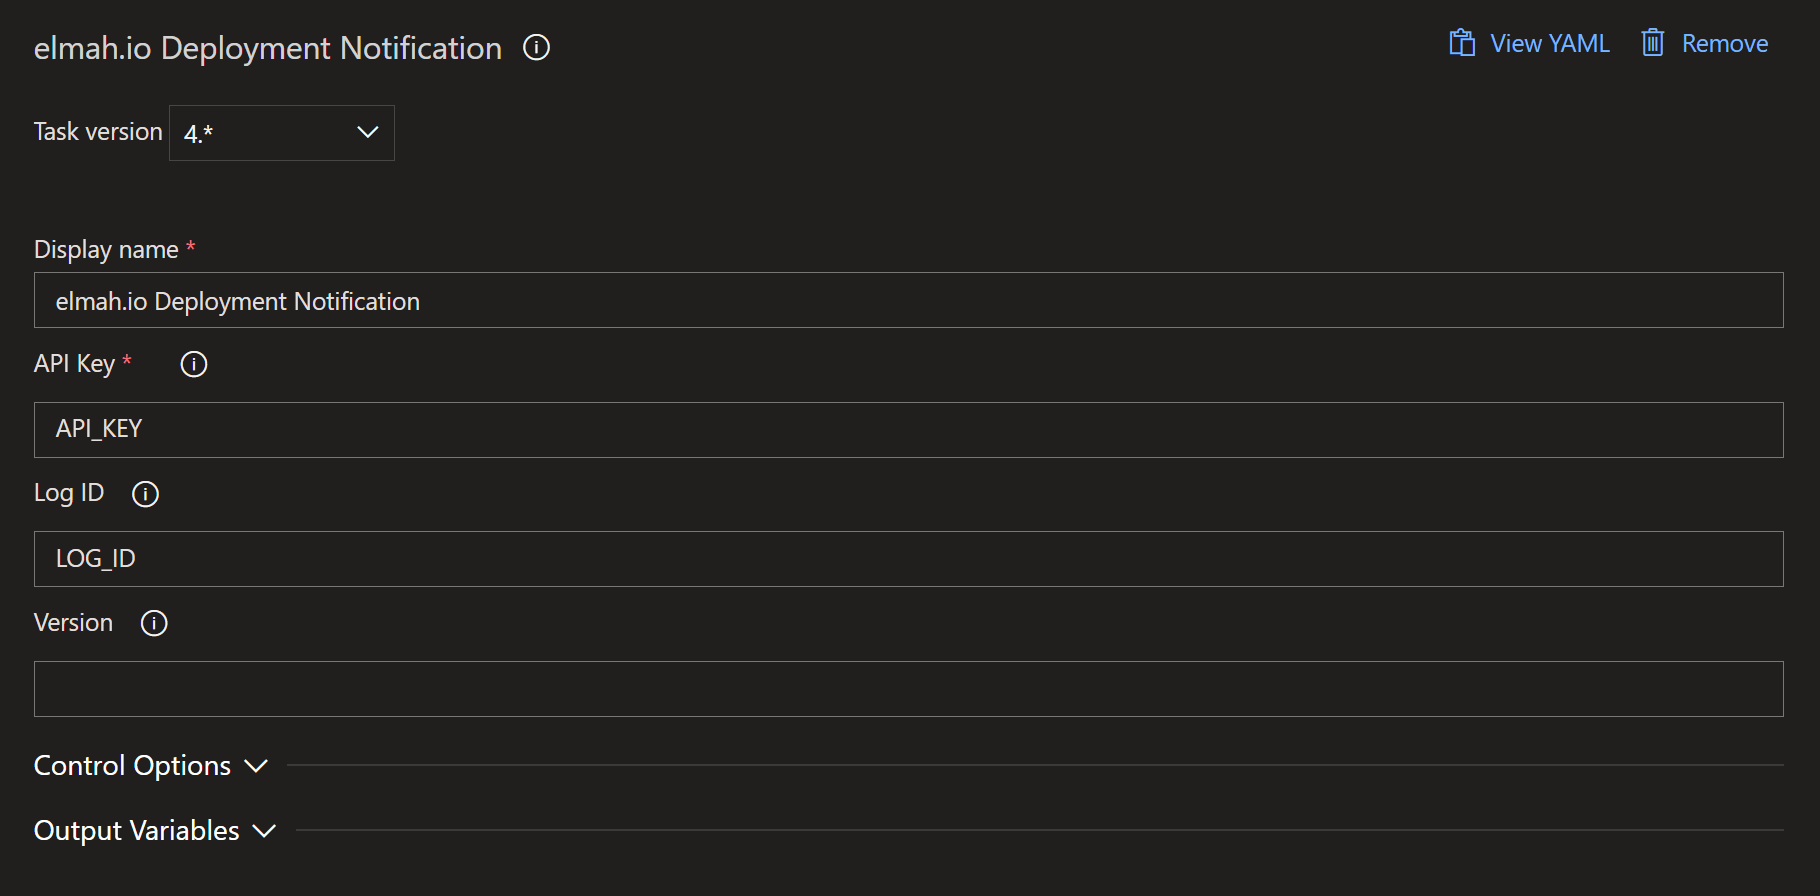
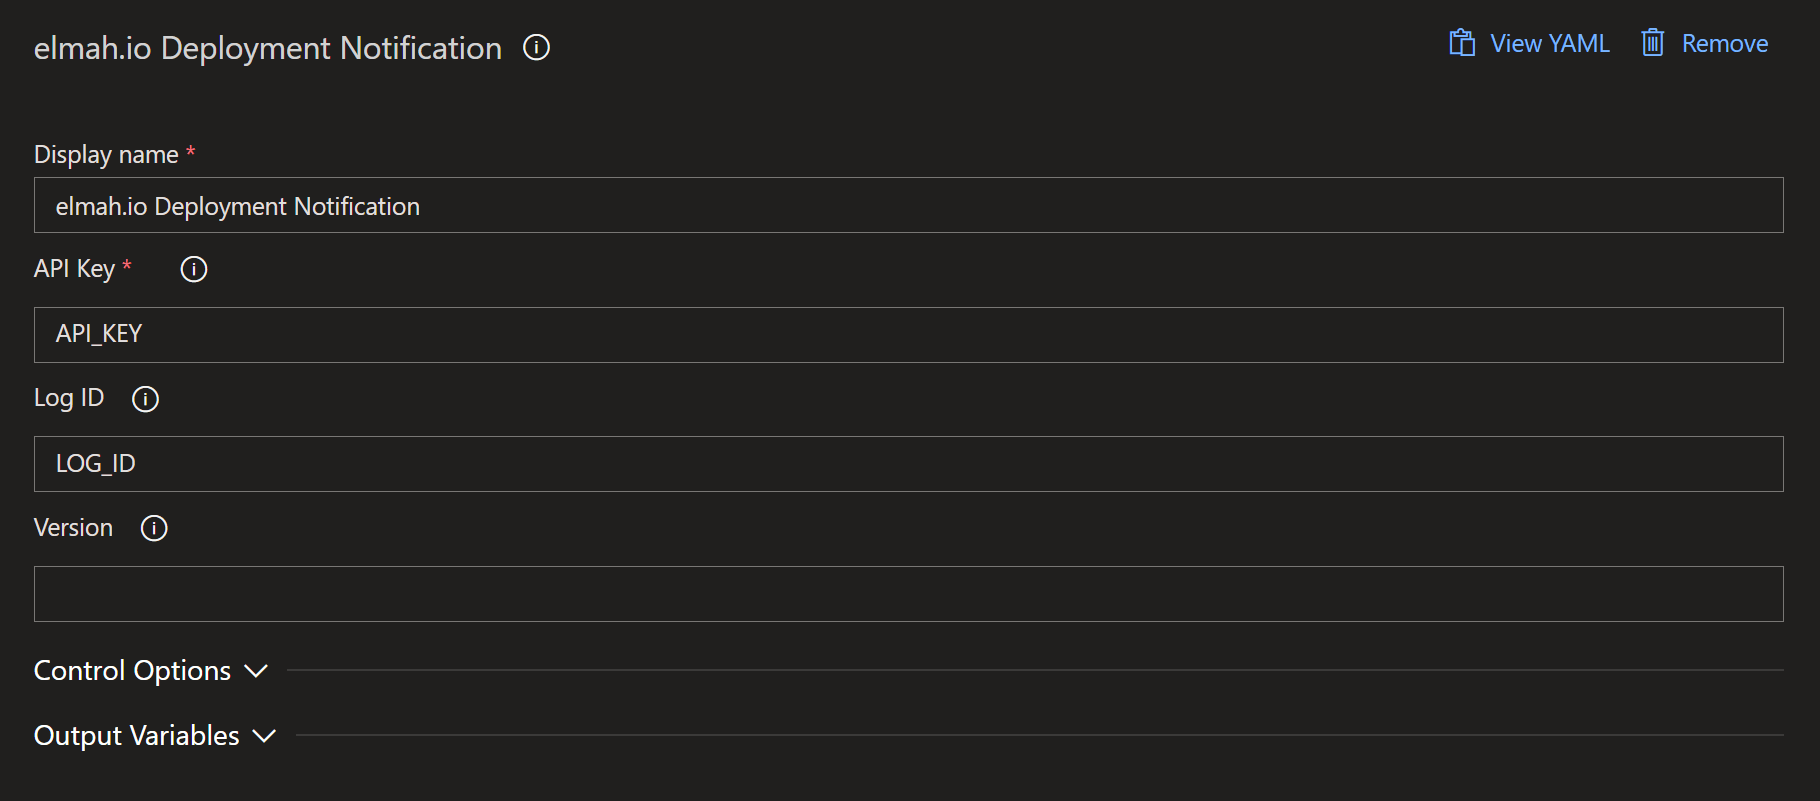
Update the README for version 5 and the release screenshot
Add YAML and input documentation, agent requirements and an upgrade
section, and remove the task version from the release screenshot.

diff --git a/README.md b/README.md
@@ -1,35 +1,64 @@
-# Notify elmah.io when you deploy
+# elmah.io Deployment Notification
 
-This extension notifies [elmah.io](https://elmah.io) when you create a new build or deployment from Azure DevOps. By telling elmah.io about your software versions, you can track how your deployments are performing, in terms of the number of warnings and errors generated by each release.
+This extension tells [elmah.io](https://elmah.io) when you deploy from Azure DevOps. With deployments tracked, elmah.io shows how many warnings and errors each version produces, so you can tell whether a release made things better or worse.
 
-## Usage
+The task works in YAML pipelines and classic release pipelines, on Windows, Linux, and macOS agents.
 
-Go to the [elmah.io Deployment Tasks](https://marketplace.visualstudio.com/items?itemName=elmahio.deploy-tasks) extension on the Azure DevOps Marketplace and click the _Get it free_ button:
+## Installation
+
+Open the [elmah.io Deployment Tasks](https://marketplace.visualstudio.com/items?itemName=elmahio.deploy-tasks) extension on the Azure DevOps Marketplace and click *Get it free*:
 
 ![Install the extension](images/marketplace_get_it_free.png)
 
-Select your organization and click the *Install* button:
+Select your organization and click *Install*:
 
 ![Select organization](images/marketplace_select_organization.png)
 
-The task supports both Pipelines and Releases and runs on Windows, Linux, and macOS agents. No matter which approach you choose, you will need to replace `API_KEY` with an API key ([Where is my API key?](https://docs.elmah.io/where-is-my-api-key/)) with permission ([How to configure API key permissions](https://docs.elmah.io/how-to-configure-api-key-permissions/)) to create deployments. If the deployment is specific to a single log, insert a log ID ([Where is my log ID?](https://docs.elmah.io/where-is-my-log-id/)) with the ID of the log instead of `LOG_ID`. Deployments without a log ID will show on all logs in the organization.
+## Before you start
 
+You need:
 
-### Pipelines
+- An API key ([Where is my API key?](https://docs.elmah.io/where-is-my-api-key/)) with the `deployments_write` permission ([How to configure API key permissions](https://docs.elmah.io/how-to-configure-api-key-permissions/)).
+- A log ID ([Where is my log ID?](https://docs.elmah.io/where-is-my-log-id/)) if the deployment belongs to a single log. Without a log ID, the deployment shows on all logs in the organization.
+- An agent running version 3.232.1 or newer. Microsoft-hosted agents already do.
 
-For Pipelines, edit your pipeline and click the *Show assistant* button. Search for 'elmah.io deploy' and click the *elmah.io Deployment Notification* task:
+## YAML pipelines
+
+Add the task as the last step of your deployment job:
+
+```yaml
+steps:
+# other steps
+- task: ElmahIoDeploymentNotification@5
+  inputs:
+    apiKey: 'API_KEY'
+    logId: 'LOG_ID'
+```
+
+You can also add the task from the assistant. Click *Show assistant*, search for 'elmah.io deploy', and select the *elmah.io Deployment Notification* task:
 
 ![Add the task](images/pipeline_task.png)
 
-The task uses the current build number (`BUILD_BUILDNUMBER`) as the version name on elmah.io. If you want to override this behavior, you can insert a value in the *Version* text box.
+Store the API key as a secret pipeline variable and reference it as `$(ElmahIoApiKey)` instead of writing it into the YAML.
 
-That's it! Azure DevOps will now notify elmah.io every time the pipeline is executed.
+## Classic release pipelines
 
-### Releases
-For Releases, edit your release pipeline and add the *elmah.io Deployment Notification* task. Fill in all fields as shown here:
+Add the *elmah.io Deployment Notification* task to your release pipeline, choose task version 5.*, and fill in the fields:
 
 ![Add the task](images/release_pipeline_task.png)
 
-The task uses the current release name (`RELEASE_RELEASENAME`) as the version name on elmah.io. If you want to override this behavior, you can insert a value in the *Version* text box.
+## Inputs
 
-That's it! Azure DevOps will now notify elmah.io every time the release pipeline is executed.
+| Input | Required | Description |
+|-------|----------|-------------|
+| `apiKey` | Yes | An elmah.io API key with the `deployments_write` permission. |
+| `logId` | No | The ID of the log the deployment belongs to. Leave it empty to show the deployment on all logs. |
+| `version` | No | The version name shown on elmah.io. Defaults to the build number (`BUILD_BUILDNUMBER`) in pipelines and the release name (`RELEASE_RELEASENAME`) in releases. |
+
+Along with the version, the task sends the commit message and the commit author's name and email from pipelines, and the release description and the name of the person who requested the release from releases.
+
+## Upgrading from version 4
+
+Change `ElmahIoDeploymentNotification@4` to `ElmahIoDeploymentNotification@5`, or pick task version 5.* in a release pipeline. Version 4 does not run on Linux agents. Version 5 runs on Windows, Linux, and macOS agents and requires agent 3.232.1 or newer. The inputs are the same.
+
+Version 5 fails the step if elmah.io can't be reached or rejects the request, for example because of an invalid API key. The error message from elmah.io is shown in the step log.
